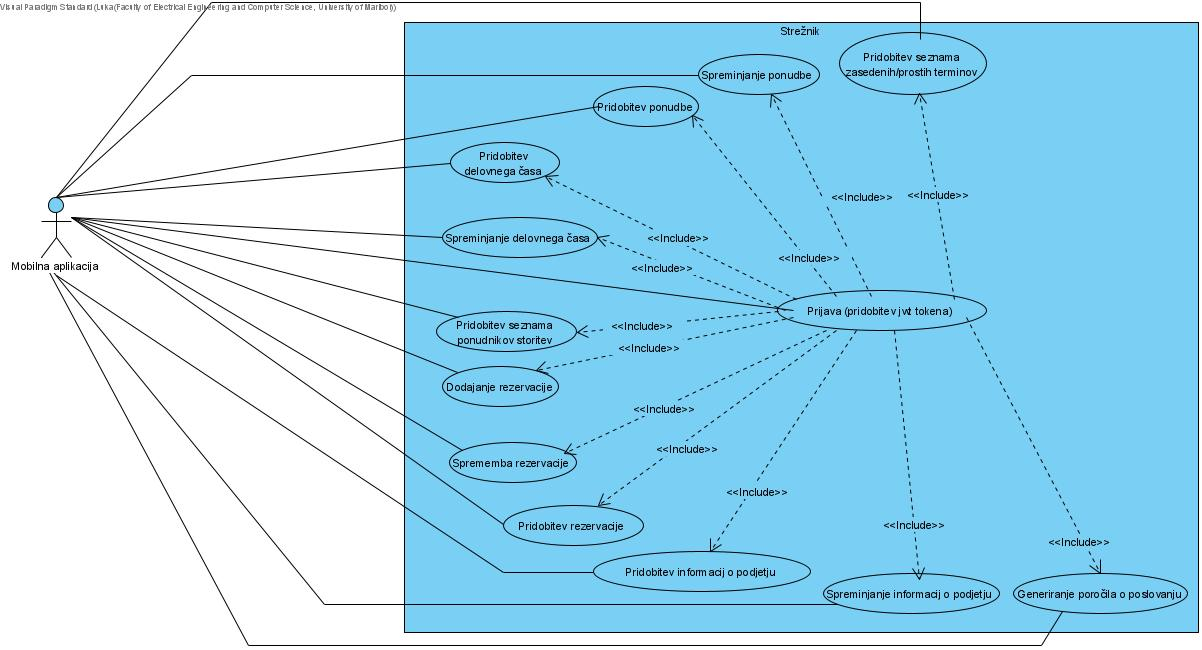
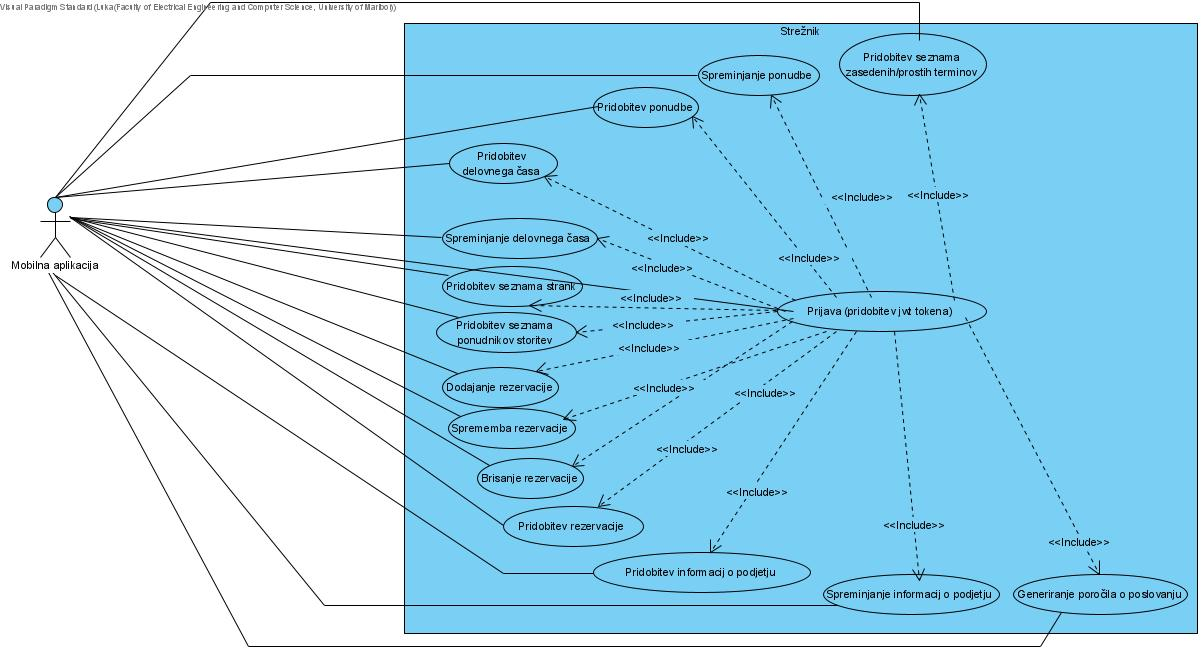
changes

diff --git a/index.js b/index.js
@@ -23,9 +23,9 @@ server.on('request', (req, res) => {
     else if(url === "/posebnosti"){
         res.writeHead(200, { 'Content-type': 'text/plain; charset=utf-8'});
         var data = "Posebnosti strežnika"
-            +"Strežnik bo moral dostopati do podatkovne baze, ki je lahko oddaljena ali pa lokalna."
-            +"Strežnik bo moral tudi implementirati funkcionalnosti prijave, kar bo izvedeno z uporabo tretjega ponudnika kot sta OAuth, Firebase,..."
-            +"Strežnik bo moral znati generirati .xslx poročila, za kar bo potreboval ustrezno knjižnico."
+            +"\nStrežnik bo moral dostopati do podatkovne baze, ki je lahko oddaljena ali pa lokalna."
+            +"\nStrežnik bo moral tudi implementirati funkcionalnosti prijave, kar bo izvedeno z uporabo tretjega ponudnika kot sta OAuth, Firebase,..."
+            +"\nStrežnik bo moral znati generirati .xslx poročila, za kar bo potreboval ustrezno knjižnico."
         return res.end(data);
     }
     else if(url === "/style.css"){

diff --git a/assets/html/index.html b/assets/html/index.html
@@ -90,6 +90,11 @@
 		<p>Strežnik iz baze prebere podatke o naročilih in podjetju, ter zgenenerira poročilo o izvedenih (ali prihodnjih) naročilih za določeno časovno obdobje.
 		</p>
 		<hr />
+		<h3>14. Pridobitev seznama strank</h3>
+		<p><b>Vhod: </b>ID ponudnika storitve, filtri (ime stranke, čas,...)</p>
+		<p><b>Izhod: </b>Seznam strank</p>
+		<p>Strežnik iz baze prebere podatke o strankah, ki ustrezajo filtrom in jih vrne.</p>
+		<hr />
 		<h3>Diagram primerov uporabe</h3>
 		<img src="/use-case-diagram" />
 	</body>
